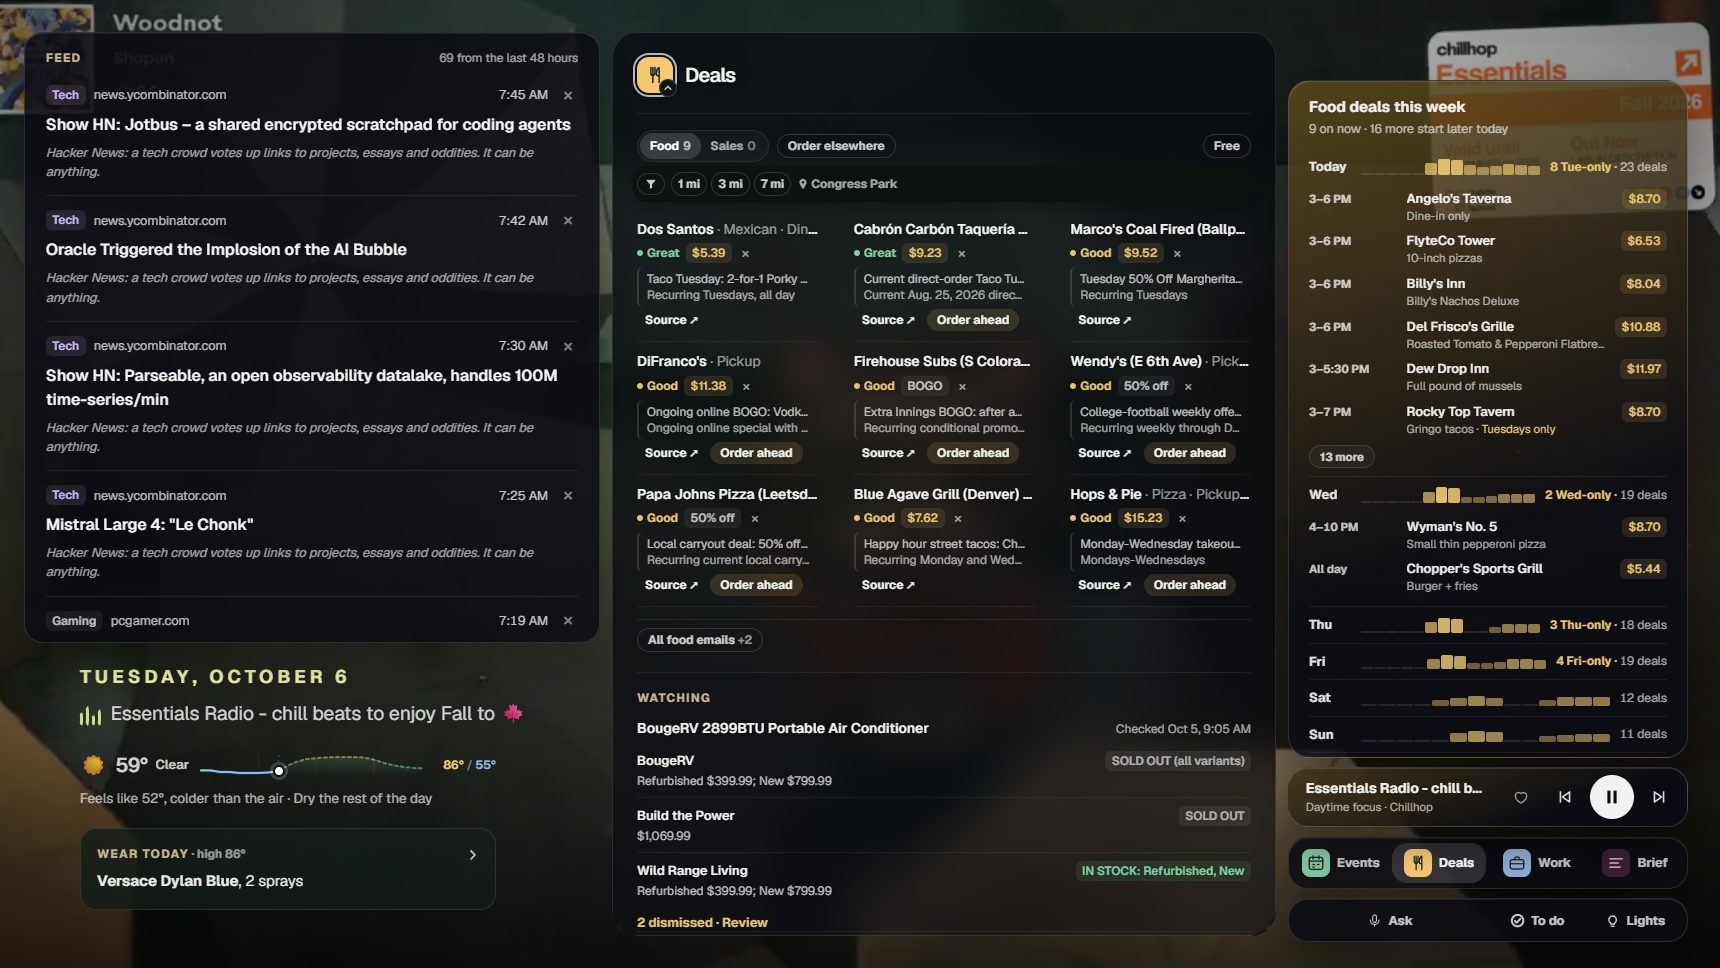
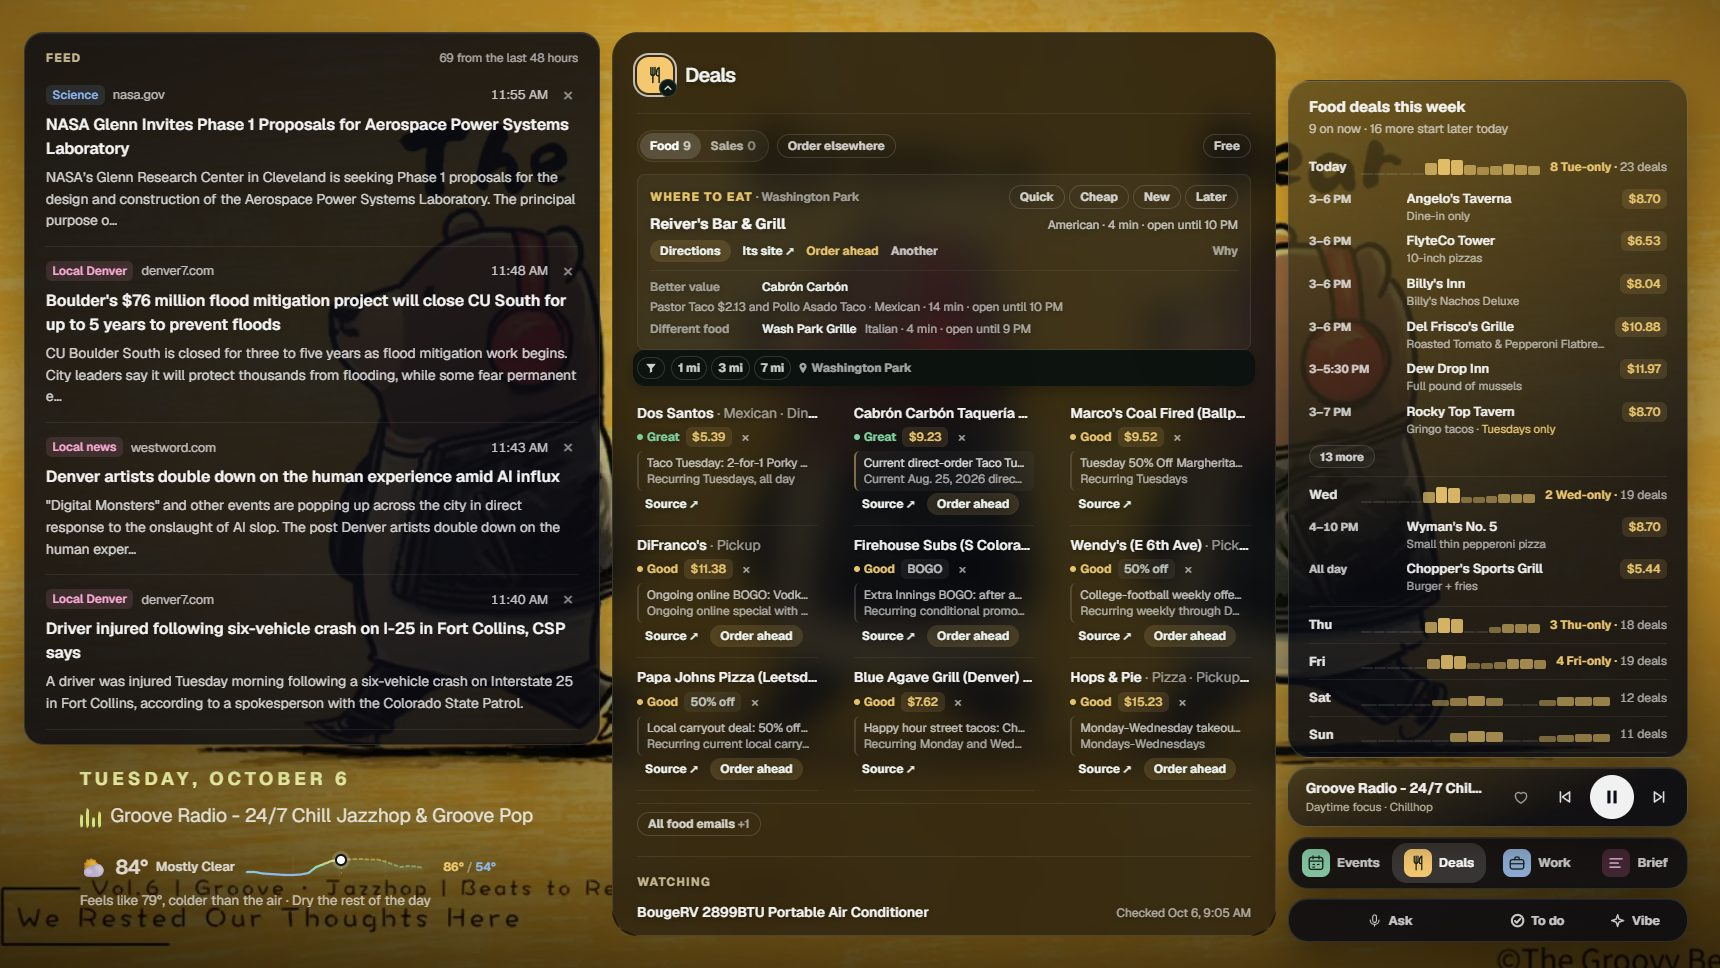
README: catch up with the app (95207be), 27 pictures (#15)

diff --git a/README.md b/README.md
@@ -31,13 +31,14 @@ The canonical copy runs on Levi's PC at `:3000`. Phones reach that copy over Tai
 
 ## What it looks like
 
-Captured from the live dashboard on 2026-10-05 and 2026-10-06, 1720 px wide on the PC and 390 px on the phone.
+Captured from the dashboard on 2026-10-06, 1720 px wide on the PC and 390 px on the phone.
 
 **The wallpaper** (F). The music video fills the screen. The date, the weather and what's playing sit on the left;
-on the right is one column: the Now card, with the thought on top of it when it has something to say, then the music
-player, the lane icons and a tool bar (Ask, To do, Lights). Mail hangs from the top of that column while mail is waiting.
+on the right is one column: the Now card (here where to eat, after Hungry), with the thought on top of it, then the
+music player, the lane icons and a tool bar (Ask, To do, Vibe). Mail hangs from the top of that column while mail is
+waiting.
 
-![The bare wallpaper: the date, the weather, the Now card, the music player, the lane icons and the tool bar (Ask, To do, Lights) over the music video](docs/screenshots/wallpaper.jpg)
+![The bare wallpaper: the date, the weather, the thought, the Now card with where to eat, the music player, the lane icons and the tool bar (Ask, To do, Vibe) over the music video](docs/screenshots/wallpaper.jpg)
 
 **Wheel down for the feed, a key for a lane.** The wheel slides the feed in. Q and W open Events and Deals as one
 pane beside it, and Esc puts everything away.
@@ -50,7 +51,8 @@ pane beside it, and Esc puts everything away.
 
 **Events and Deals.** A lane is one pane over the wallpaper, with its own week in the Now card's place: the forecast
 beside Events, the week in deals beside Deals. Each lane has two halves, and a hold on its icon or its key switches
-to the other one: Events with or without concerts, Deals as Food or Sales.
+to the other one: Events with or without concerts, Deals as Food or Sales. At the top of Deals' Food half is Where
+to eat: one place, the two that trade something against it, and Directions, Its site, Order ahead and Another.
 
 | Events (Q) | Events with concerts |
 |---|---|
@@ -58,7 +60,7 @@ to the other one: Events with or without concerts, Deals as Food or Sales.
 
 | Deals: Food (W) | Deals: Sales |
 |---|---|
-| ![The Deals lane with food deals, the gear watch and the week in deals beside it](docs/screenshots/lane-deals.jpg) | ![The Deals lane on Sales: the stores with a sale on, and the gear watch](docs/screenshots/lane-deals-sales.jpg) |
+| ![The Deals lane: Where to eat on top with its pick and two alternatives, the food deals under it, and the week in deals beside it](docs/screenshots/lane-deals.jpg) | ![The Deals lane on Sales: the stores with a sale on, and the gear watch](docs/screenshots/lane-deals-sales.jpg) |
 
 **The Work lane** (E), here on made-up driving data. It reads down from the week's figures and a bar for each day to
 the map of where offers come from, every offer against the grader's Good and Skip lines, when offers come, and
@@ -92,16 +94,16 @@ up, by genre, each one playable. 2 and 3 move a pick through the rows.
 | ![The Music view on Stations: the daily moods and the genres](docs/screenshots/music-stations.jpg) | ![The Music view on Concerts: acts by genre with ticket, calendar and like buttons](docs/screenshots/music-concerts.jpg) |
 
 **Beside the lanes.** R opens the briefing over the Now card. At the foot of the column is one tool bar: Ask is the
-microphone, and resting the mouse on it (or B) brings up Hungry, What now? and Another; Lights opens the Hue controls,
-and To Do (4) opens the list with its add box.
+microphone, and resting the mouse on it (or B) brings up Hungry, What now? and Another; Vibe opens the desktop
+background's row over the Hue controls, and To Do (4) opens the list with its add box.
 
 | The briefing (R) | Ask's actions |
 |---|---|
-| ![The daily briefing over the Now card: what needs him, what is coming up, the headlines](docs/screenshots/brief.jpg) | ![The mouse resting on Ask: Hungry, What now? and Another above the tool bar](docs/screenshots/now-thought.jpg) |
+| ![The daily briefing over the Now card: what needs him, what is coming up, the headlines](docs/screenshots/brief.jpg) | ![The mouse resting on Ask: Hungry, What now?, Another and I ate above the tool bar, under the Now card's where to eat](docs/screenshots/now-thought.jpg) |
 
-| Lights | To Do (4) |
+| Vibe | To Do (4) |
 |---|---|
-| ![The Lights panel: the colour sets, the colour strength, all lights dimmer or brighter, each room](docs/screenshots/lights.jpg) | ![The To Do list open over the wallpaper, with its add box](docs/screenshots/todo.jpg) |
+| ![The Vibe panel: the desktop background (Auto, Blackbody, Bing), then the lights: the colour sets, the colour strength, all lights dimmer or brighter, each room](docs/screenshots/lights.jpg) | ![The To Do list open over the wallpaper, with its add box](docs/screenshots/todo.jpg) |
 
 **Three views.** F switches between the wallpaper and the hybrid view (all four lanes as glass over the video). M
 switches the hybrid view to the classic dashboard and back.
@@ -117,13 +119,13 @@ The key list (?):
 ![The keyboard shortcut list, a wide panel that scrolls inside the screen](docs/screenshots/shortcuts.jpg)
 
 **On a phone.** It starts on the wallpaper, as bare as the PC's: the date and one line of weather with the day's
-temperature graph at the bottom left, and the lane buttons in a column at the right edge, under a thumb. The Now card
-is a short scroll below. A lane opens as glass over the wallpaper; the Work lane here is on made-up driving data.
+temperature graph at the bottom left, and the lane buttons in a column at the right edge, under a thumb, with Drive
+Home's house on top of them. The Now card is a short scroll below. A lane opens as glass over the wallpaper; the Work lane here is on made-up driving data.
 
 <p>
-  <img src="docs/screenshots/phone-wallpaper.jpg" width="200" alt="The phone wallpaper: the date, the day's temperature graph, the lane buttons at the right edge, the To Do pill and the music bar">
+  <img src="docs/screenshots/phone-wallpaper.jpg" width="200" alt="The phone wallpaper: the date, the day's temperature graph, Drive Home's house on top of the lane buttons at the right edge, the thought and To Do pills and the music bar">
   <img src="docs/screenshots/phone-events.jpg" width="200" alt="The Events lane opened on the phone">
-  <img src="docs/screenshots/phone-deals.jpg" width="200" alt="The Deals lane opened on the phone">
+  <img src="docs/screenshots/phone-deals.jpg" width="200" alt="The Deals lane opened on the phone, with Where to eat on top">
   <img src="docs/screenshots/phone-work.jpg" width="200" alt="The Work lane opened on the phone">
 </p>
 
